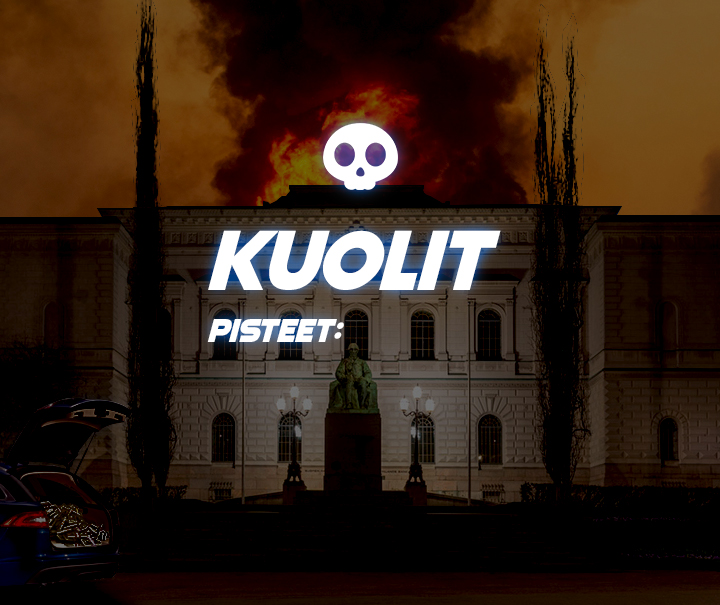
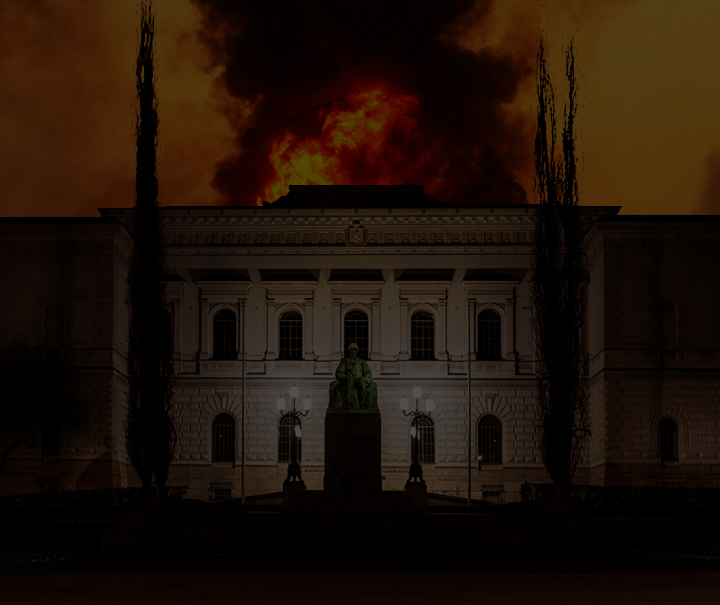
MoneyRain kuvista suomiteksti pois, LuckySpins voittolinjat korjattu

diff --git a/src/main/java/view/LuckySpinsViewController.java b/src/main/java/view/LuckySpinsViewController.java
@@ -64,6 +64,10 @@ public class LuckySpinsViewController implements Initializable{
 	private int spinsLeft = 0;
 	private int winning = 0;
 	private double bet = 1;
+	private SlotMachine game1 = new SlotMachine();
+	private SlotMachine game2 = new SlotMachine();
+	private SlotMachine game3 = new SlotMachine();
+	private int paylinesSelected = 1;
 	
 	private void init() throws FileNotFoundException {
 		payline1.setSelected(false);
@@ -100,14 +104,11 @@ public class LuckySpinsViewController implements Initializable{
 	}
 	
 	private void manualSpin(int timeInMillis) throws FileNotFoundException{
-		SlotMachine game1 = new SlotMachine();
-		SlotMachine game2 = new SlotMachine();
-		SlotMachine game3 = new SlotMachine();
 		game1.play();
 		game2.play();
 		game3.play();
 		
-		Tietokanta.decreaseCreditBalance((int)bet);
+		Tietokanta.decreaseCreditBalance((int)bet * paylinesSelected);
 		balanceLabel.setText("Saldo: " + User.getCredits());
 		winning = 0;
 		if(game1.checkWin() && payline1.isSelected())
@@ -122,7 +123,6 @@ public class LuckySpinsViewController implements Initializable{
 		Timeline tl = new Timeline(new KeyFrame(Duration.millis(timeInMillis), ea -> {
 				try {
 					showIcons(game1.getOutcome(),game2.getOutcome(),game3.getOutcome());
-					System.out.println(spinsLeft);
 					if(spinsLeft>1) {
 						spinsLeftLabel.setText("Pyöräytykset: " + (--spinsLeft));
 					}
@@ -168,9 +168,20 @@ public class LuckySpinsViewController implements Initializable{
 	private void paylineColor(ToggleButton payline) {
 		if(payline.isSelected()) {
 			payline.setStyle("-fx-background-color:  #6bd600");
+			paylinesSelected++;
 		}
 		else {
 			payline.setStyle("-fx-background-color:  #132402");
+			paylinesSelected--;
+		}
+		betButton.setText("Panos: " + ((int)bet*paylinesSelected));
+		if(paylinesSelected == 0) {
+			setButtonsDisable(true);
+			winLabel.setText("Valitse voittolinjat!");
+		}
+		else {
+			setButtonsDisable(false);
+			winLabel.setText("");
 		}
 	}
 	private void spinAnimation() throws FileNotFoundException {
@@ -269,7 +280,7 @@ public class LuckySpinsViewController implements Initializable{
 		bet = Math.round(bet);
 		if(bet > 140)
 			bet = 1;
-		betButton.setText("Panos: " + (int)bet);
+		betButton.setText("Panos: " + ((int)bet)*paylinesSelected);
 	}
 	
 	public void setTurbo(ActionEvent e) {

diff --git a/src/main/java/moneyrain/MoneyRain.java b/src/main/java/moneyrain/MoneyRain.java
@@ -176,10 +176,10 @@ public class MoneyRain extends Canvas {
 	}
 	
 	private void run(GraphicsContext gc) throws FileNotFoundException {
-		if(collectedCash == 5) 
-			gc.drawImage(bgfullcar, 0, 0);
-		else
-			gc.drawImage(bg, 0, 0);
+		gc.drawImage(bg, 0, 0);
+		if(collectedCash == 5) {
+			gc.fillText("Tyhjennä kädet!", 25, height-110);
+		}
 		gc.setFont(Font.font(25));
 		gc.setTextAlign(TextAlignment.LEFT);
 		
@@ -272,6 +272,11 @@ public class MoneyRain extends Canvas {
 		else {
 			click = new Image(new FileInputStream("./src/main/resources/moneyrain/click.png"));
 			gc.drawImage(click, 0, 0);
+			gc.setTextAlign(TextAlignment.CENTER);
+			gc.setFill(Color.WHITE);
+			gc.setFont(Font.font("Courier", 50));
+			gc.fillText("Klikkaa pelataksesi", width/2, height/2);
+			gc.setTextAlign(TextAlignment.LEFT);
 		}
 	}
 	

diff --git a/src/main/java/view/MoneyRainDeadViewController.java b/src/main/java/view/MoneyRainDeadViewController.java
@@ -15,6 +15,7 @@ public class MoneyRainDeadViewController{
 	
 	@FXML private Button toMenu;
 	@FXML private Label pointsLabel;
+	@FXML private Label coinsWonLabel;
 	private int points;
 	
 	
@@ -36,7 +37,12 @@ public class MoneyRainDeadViewController{
 	public void setPoints(int pointsFromGame) {
 		points = pointsFromGame;
 		Tietokanta.setHighScore(points, "MoneyRain");
-		pointsLabel.setText("" + points);
+		pointsLabel.setText("Pisteet: " + points);
+		int coinsToGive = points/20; //Pelaajan kolikot on pelin pisteet/20, eli esim 200 pistettä pelistä on 10 kolikkoa
+		if(points > 100) { //Pelaajalla on oltava ainakin 100 pistettä jotta ansaitsee kolikoita
+			coinsWonLabel.setText("Voitit " + coinsToGive + " kolikkoa!");
+			Tietokanta.increaseCoinBalance(coinsToGive);
+		}
 	}
 	
 	public int getPoints() {

diff --git a/src/main/java/slotgames/SlotMachine.java b/src/main/java/slotgames/SlotMachine.java
@@ -17,9 +17,6 @@ public class SlotMachine {
 	// Pelataan kierros slotteja
 	public void play() {
 		spin();
-		if (checkWin()) {
-			System.out.println("Voitit " + payout() + " krediittiä!");
-		}
 	}
 	
 	// Pyöräytetään yksi kierros numeroita koneesta
@@ -28,8 +25,6 @@ public class SlotMachine {
 		for (int i=0;i<3; i++) {
 			outcome[i] = reel[rand.nextInt(reel.length)];
 		}
-		System.out.println(Arrays.toString(outcome));
-
 	}
 	
 	// Tarkistetaan onko voittoja
@@ -38,7 +33,6 @@ public class SlotMachine {
 				(outcome[0] == 6 && outcome[1] == 6) || (outcome[1] == 6 && outcome[2] == 6) || (outcome[0] == 6 && outcome[2] == 6)){ // Erikseen tarkistetaan jos tulee "wild" iconeja
 			return true;
 		}
-		//System.out.println("Ei voittoja");
 		return false;
 	}
 	
